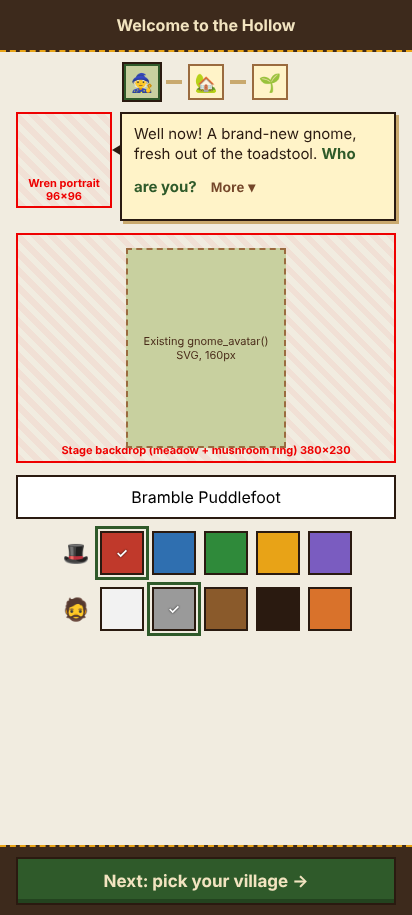
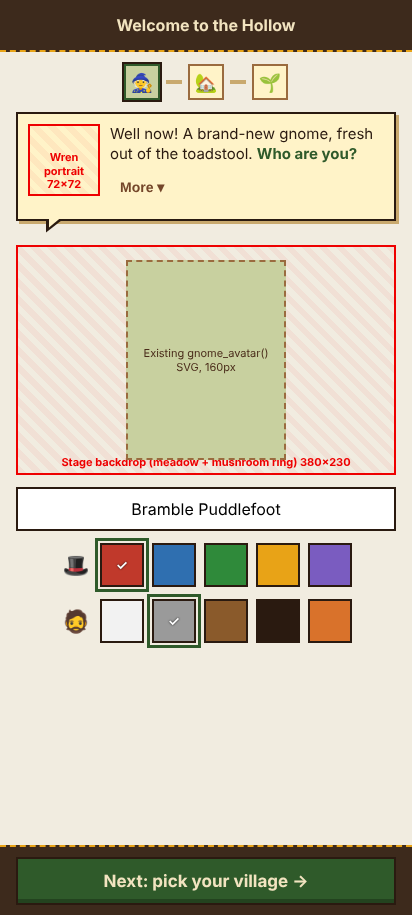
Welcome mockups: Wren portrait in speech bubble, switching welcome basket
Claude-Session: https://claude.ai/code/session_01PZZqg64aEdjtxjrzTcsweq

Changed region(s): [[0.0291, 0.459, 0.9612, 0.7344], [0.0291, 0.1224, 0.9612, 0.306], [0.3495, 0.3672, 0.6699, 0.4284]]

diff --git a/docs/welcome-mockups/index.html b/docs/welcome-mockups/index.html
@@ -24,10 +24,12 @@ body.only .frame.show{display:flex}
 .ph{border:2px solid #e00;background:repeating-linear-gradient(45deg,rgba(238,0,0,.05) 0 6px,transparent 6px 12px);display:flex;align-items:flex-end;justify-content:center;font-size:11px;line-height:1.2;color:#e00;font-weight:700;padding:3px;text-align:center}
 .ex{border:2px dashed var(--line-2);background:var(--brand-soft);display:flex;align-items:flex-end;justify-content:center;font-size:11px;color:var(--ink-2);padding:3px;text-align:center}
 /* Wren */
-.wren{display:flex;align-items:flex-start;gap:8px;width:100%;text-align:left}
-.wren .ph{flex:0 0 96px;height:96px}
-.bubble{flex:1;background:var(--surface);border:2px solid var(--ol);box-shadow:var(--drop) 3px 3px 0;padding:10px 12px;font-size:15px;line-height:1.35;position:relative}
-.bubble:before{content:"";position:absolute;left:-10px;top:30px;width:10px;height:12px;background:var(--ol);clip-path:polygon(100% 0,0 50%,100% 100%)}
+.wren{width:100%;text-align:left;position:relative;padding-bottom:12px}
+.bubble{display:flex;gap:10px;align-items:flex-start;background:var(--surface);border:2px solid var(--ol);box-shadow:var(--drop) 3px 3px 0;padding:10px;font-size:15px;line-height:1.35;position:relative}
+.bubble .ph{flex:0 0 72px;height:72px}
+.bubble .txt{flex:1;min-width:0}
+.bubble:before{content:"";position:absolute;left:28px;bottom:-14px;width:18px;height:14px;background:var(--ol);clip-path:polygon(0 0,100% 0,0 100%)}
+.bubble:after{content:"";position:absolute;left:31px;bottom:-9px;width:12px;height:10px;background:var(--surface);clip-path:polygon(0 0,100% 0,0 100%)}
 .bubble b{color:var(--brand)}
 .more{display:inline-flex;align-items:center;justify-content:center;min-height:var(--tap);min-width:var(--tap);padding:0 10px;color:var(--muted);font-weight:700;font-size:14px;background:none;border:0;cursor:pointer}
 /* stage */
@@ -50,6 +52,19 @@ body.only .frame.show{display:flex}
 .slot{width:36px;height:36px;background:var(--surface-2);border:2px solid var(--line-2);display:grid;place-items:center;font-size:20px;position:relative}
 .plus{font-size:12px;font-weight:700;color:var(--muted);padding:0 4px}
 .hint{font-size:13px;color:var(--muted);margin:0}
+/* welcome basket */
+.basket{width:100%;position:relative;margin-top:2px}
+.basket .lid{display:flex;align-items:center;justify-content:center;gap:6px;font-weight:700;font-size:15px;color:var(--ink-2);min-height:28px}
+.basket .weave{border:2px solid var(--ol);border-top:0;background:repeating-linear-gradient(90deg,#d9b27a 0 10px,#c79c60 10px 12px),#d9b27a;box-shadow:var(--drop) 3px 3px 0;padding:10px 10px 12px;position:relative}
+.basket .weave:before{content:"";position:absolute;left:-2px;right:-2px;top:-8px;height:10px;background:#a9743f;border:2px solid var(--ol)}
+.basket .inner{background:var(--surface-2);border:2px solid var(--ol);padding:10px 8px;display:grid;grid-template-columns:repeat(3,1fr);gap:10px 6px;min-height:150px;align-content:start}
+.basket .item{display:flex;flex-direction:column;align-items:center;gap:4px;animation:pop .25s ease-out both}
+.basket .item .slot{width:52px;height:52px;font-size:28px;background:var(--surface);border-color:var(--ol)}
+.basket .item .badge{font-size:11px;line-height:16px;padding:0 4px}
+.basket .item small{font-size:11px;line-height:1.1;color:var(--ink-2);text-align:center}
+.basket .art{position:absolute;right:0;top:-2px;width:84px;height:30px;font-size:9px;padding:1px;align-items:center;background:var(--bg)}
+@keyframes pop{from{transform:translateY(-14px) scale(.7);opacity:0}to{transform:none;opacity:1}}
+@media (prefers-reduced-motion:reduce){.basket .item{animation:none}}
 /* pack tiles */
 .packs{width:100%;display:flex;flex-direction:column;gap:10px}
 .pack{background:var(--surface);border:2px solid var(--ol);box-shadow:var(--drop) 3px 3px 0;padding:8px;text-align:left}
@@ -77,9 +92,8 @@ body.only .frame.show{display:flex}
   <div class="main">
     <div class="prog" role="img" aria-label="Step 1 of 3: your gnome"><i class="now">🧙</i><b></b><i>🏡</i><b></b><i>🌱</i></div>
     <div class="wren">
-      <div class="ph">Wren portrait 96x96</div>
-      <div class="bubble">Well now! A brand-new gnome, fresh out of the toadstool. <b>Who are you?</b>
-        <button class="more" aria-expanded="false">More ▾</button></div>
+      <div class="bubble"><div class="ph">Wren portrait 72x72</div><div class="txt">Well now! A brand-new gnome, fresh out of the toadstool. <b>Who are you?</b>
+        <button class="more" aria-expanded="false">More ▾</button></div></div>
     </div>
     <div class="stage">
       <div class="ph bg">Stage backdrop (meadow + mushroom ring) 380x230</div>
@@ -112,23 +126,23 @@ body.only .frame.show{display:flex}
   <div class="main">
     <div class="prog" role="img" aria-label="Step 2 of 3: village"><i class="done">✓</i><b class="done"></b><i class="now">🏡</i><b></b><i>🌱</i></div>
     <div class="wren">
-      <div class="ph">Wren portrait 96x96</div>
-      <div class="bubble">Lovely to meet you, <b>Bramble</b>! Where shall we plant your first garden in the <b>Maplewold</b>?
-        <button class="more" aria-expanded="false">More ▾</button></div>
+      <div class="bubble"><div class="ph">Wren portrait 72x72</div><div class="txt">Lovely to meet you, <b>Bramble</b>! Where shall we plant your first garden in the <b>Maplewold</b>?
+        <button class="more" aria-expanded="false">More ▾</button></div></div>
     </div>
     <div class="vcards" role="radiogroup" aria-label="Village">
-      <div class="vcard on" role="radio" aria-checked="true" tabindex="0">
+      <div class="vcard on" role="radio" aria-checked="true" tabindex="0" data-v="poppy">
         <div class="ph">Poppyburrow village scene 160x100</div>
         <h3>Poppyburrow</h3>
-        <div class="heroes"><span class="slot">🫛</span><span class="slot">🥕</span><span class="slot">🍓</span><span class="plus">+5</span></div>
       </div>
-      <div class="vcard" role="radio" aria-checked="false" tabindex="0">
+      <div class="vcard" role="radio" aria-checked="false" tabindex="0" data-v="honey">
         <div class="ph">Honeybrook village scene 160x100</div>
         <h3>Honeybrook</h3>
-        <div class="heroes"><span class="slot">🌻</span><span class="slot">🍯</span><span class="slot">🫐</span><span class="plus">+4</span></div>
       </div>
     </div>
-    <p class="hint">Each village sends you off with its own welcome basket.</p>
+    <div class="basket" aria-live="polite">
+      <div class="lid"><span>🧺</span><span id="bk-title">Poppyburrow's welcome basket</span></div>
+      <div class="weave"><div class="inner" id="bk"></div></div>
+    </div>
     <p class="hint">Roads here are gentle. Further out, the world gets wilder.</p>
   </div>
   <div class="cta"><button class="btn">Next: name your garden →</button><a class="back" href="#s1">← Back</a></div>
@@ -140,8 +154,7 @@ body.only .frame.show{display:flex}
   <div class="main">
     <div class="prog" role="img" aria-label="Step 3 of 3: first garden"><i class="done">✓</i><b class="done"></b><i class="done">✓</i><b class="done"></b><i class="now">🌱</i></div>
     <div class="wren">
-      <div class="ph">Wren portrait 96x96</div>
-      <div class="bubble"><b>Poppyburrow</b> it is! Every good garden needs a name.</div>
+      <div class="bubble"><div class="ph">Wren portrait 72x72</div><div class="txt"><b>Poppyburrow</b> it is! Every good garden needs a name.</div></div>
     </div>
     <input class="nameinput" aria-label="Garden name" value="Bramble's Garden">
     <div class="stats">
@@ -162,6 +175,14 @@ body.only .frame.show{display:flex}
 </section>
 </div>
 <script>
-if (/^#s[123]$/.test(location.hash)) { document.body.classList.add('only'); document.querySelector(location.hash).classList.add('show'); }
+if (/^#s[123]h?$/.test(location.hash)) { document.body.classList.add('only'); document.querySelector(location.hash.replace('h','')).classList.add('show'); }
+
+const BK={
+ poppy:{n:"Poppyburrow",i:[["☘","Four-leaf Clover",1],["🍯","Wild Honeycomb",1],["🍓","Wild Strawberries",1],["🌾","Meadowsweet",1],["🌾","Wild Rice Seeds",2],["🍓","Raspberry",2]]},
+ honey:{n:"Honeybrook",i:[["☘","Four-leaf Clover",1],["🍯","Wild Honeycomb",1],["🍓","Wild Strawberries",1],["🌾","Meadowsweet",1],["🌳","Apple Seedling",2],["🍎","Apple",2]]}};
+function fill(k){const b=document.getElementById('bk');if(!b)return;document.getElementById('bk-title').textContent=BK[k].n+"'s welcome basket";
+ b.innerHTML=BK[k].i.map((x,j)=>`<div class="item" style="animation-delay:${j*60}ms"><span class="slot">${x[0]}<i class="badge">×${x[2]}</i></span><small>${x[1]}</small></div>`).join('');}
+document.querySelectorAll('.vcard').forEach(c=>{const pick=()=>{document.querySelectorAll('.vcard').forEach(o=>{o.classList.toggle('on',o===c);o.setAttribute('aria-checked',o===c)});fill(c.dataset.v)};c.addEventListener('click',pick);c.addEventListener('keydown',e=>{if(e.key==='Enter'||e.key===' '){e.preventDefault();pick()}})});
+const first=location.hash==='#s2h'?'honey':'poppy';document.querySelectorAll('.vcard').forEach(o=>{o.classList.toggle('on',o.dataset.v===first);o.setAttribute('aria-checked',o.dataset.v===first)});fill(first);
 </script>
 </body></html>

diff --git a/docs/welcome-mockups/PROPOSAL.md b/docs/welcome-mockups/PROPOSAL.md
@@ -40,3 +40,8 @@ Future villages need one 160x100 scene each (fallback: landscape emoji on a flat
 - Hiding Wren's text behind "More" may drop the gentle-roads/level info; confirm with game-designer.
 - Emoji vary by platform; real item icons (name_emoji) may differ in width.
 - Mockup uses inline style for swatch colours; production must use classes/data attributes (CSP).
+
+## Update: Wren bubble + welcome basket
+- Wren portrait (72x72) now sits inside the speech-bubble box, tail pointing down-left. One shared component, all 3 steps.
+- Step 2: village cards lose their item icons. A woven "welcome basket" sits below the cards; it holds the selected village's items as big slots with x-N badges and names. Tapping a card swaps the contents (items drop in with a short staggered pop, off under prefers-reduced-motion). `aria-live=polite` announces the change.
+- Extra art: none required (basket is CSS weave; optional pixel basket rim later). Mockup states: `index.html#s2` (Poppyburrow), `#s2h` (Honeybrook); screenshots step2.png, step2-honeybrook.png.
